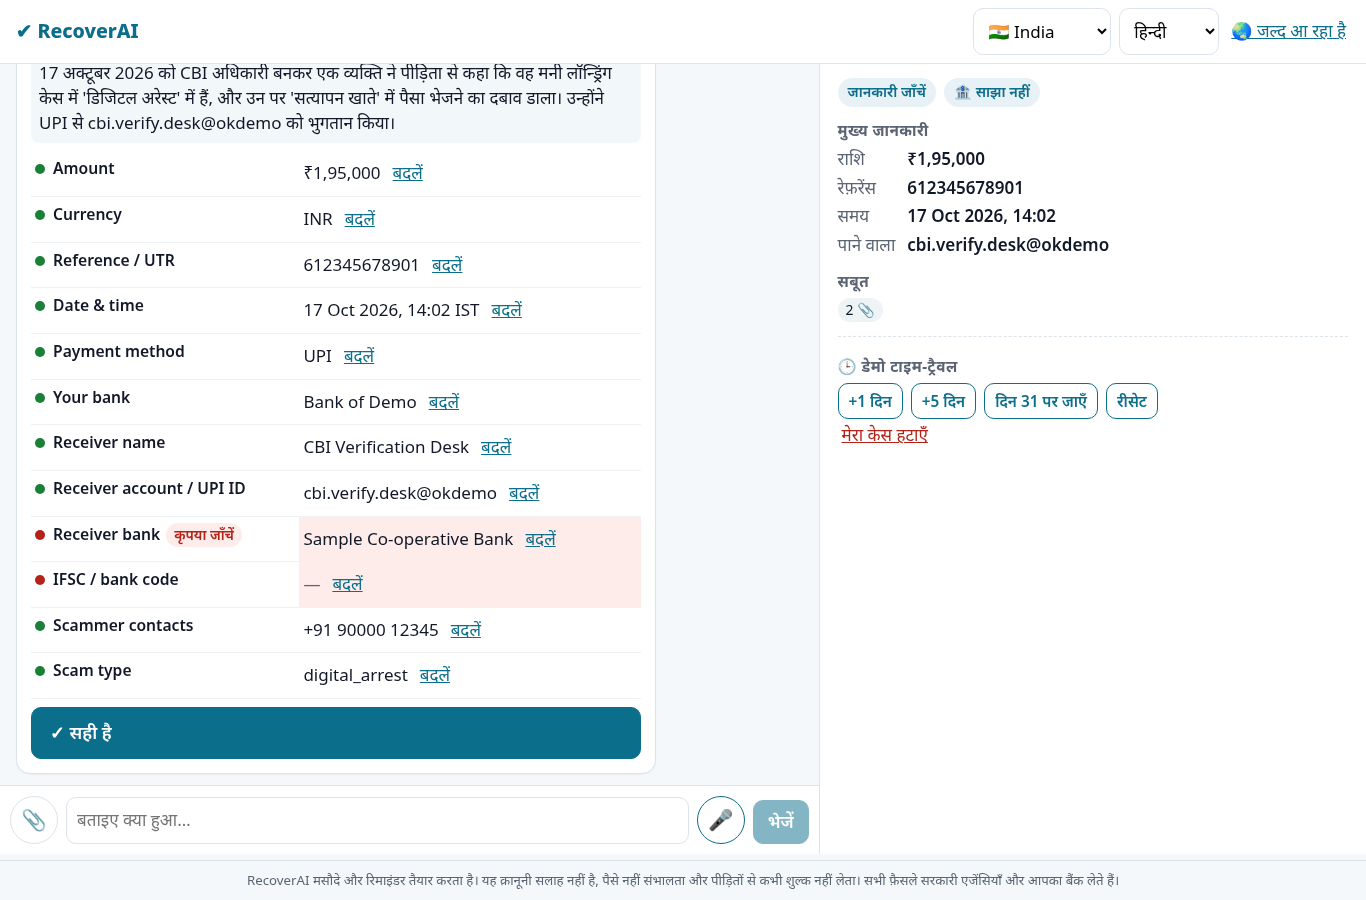
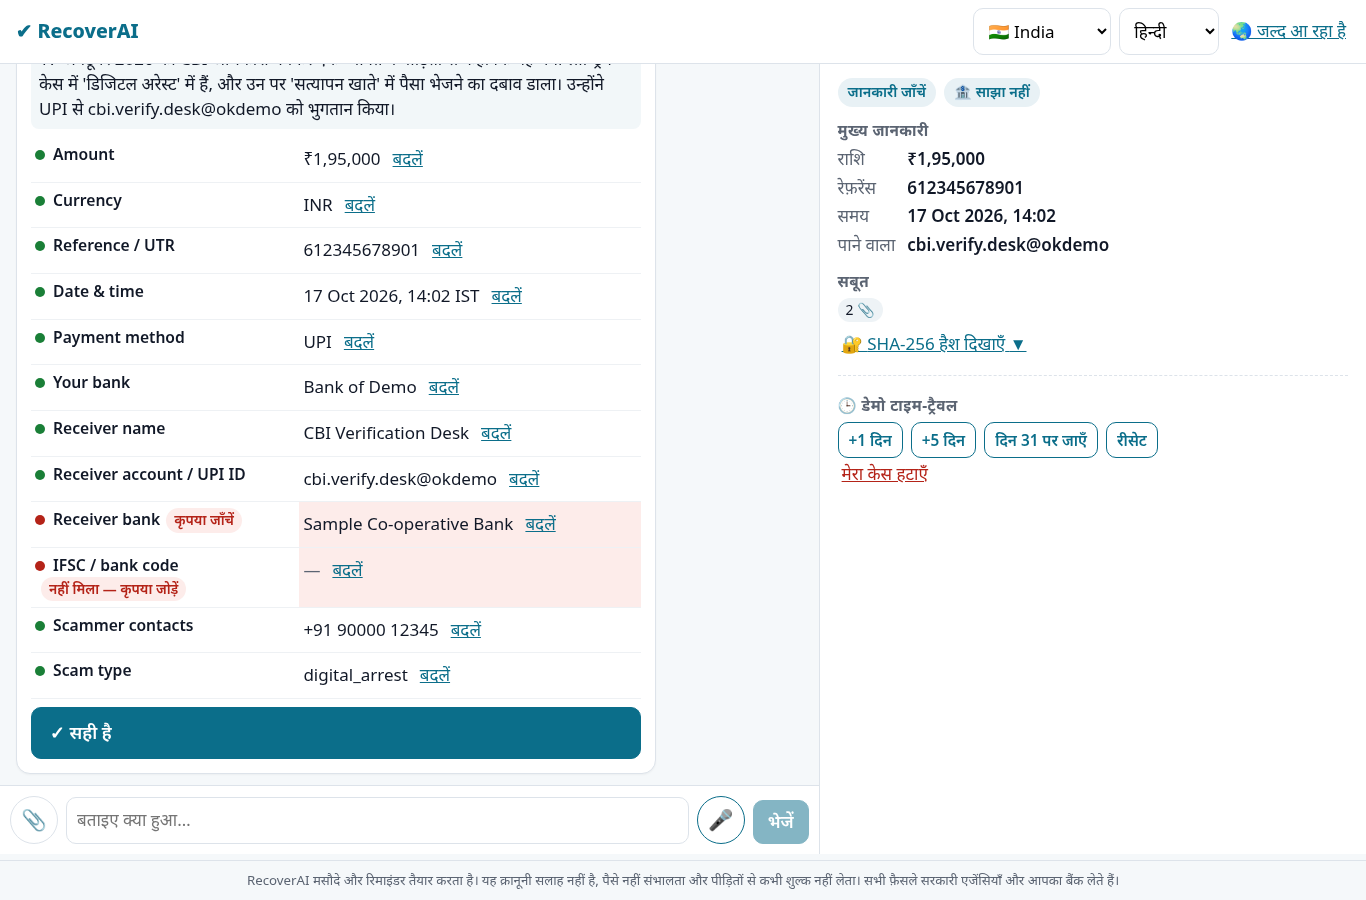
UI audit gaps: live bank case detail, mobile bottom tabs + large mic, timeline mark-done per clock, camera button + evidence type/time, panel SHA-256 hashes, check chip on missing facts; smoke test covers them

Changed region(s): [[0.0, 0.0622, 0.4612, 0.6844], [0.6149, 0.3733, 0.8609, 0.56]]

diff --git a/frontend/src/cards/UploadCard.tsx b/frontend/src/cards/UploadCard.tsx
@@ -4,7 +4,12 @@ import { useCopilot } from "../copilot/context";
 import { useT } from "../i18n";
 import type { CardProps } from ".";
 
-interface Item { id: string; label: string; preview?: string; sha256?: string }
+interface Item { id: string; label: string; type: string; at?: string; preview?: string; sha256?: string }
+
+export function fmtTime(iso?: string): string {
+  if (!iso) return "—";
+  return new Date(iso).toLocaleString("en-GB", { day: "numeric", month: "short", hour: "2-digit", minute: "2-digit" });
+}
 
 export function UploadCard({ data, messageId }: CardProps) {
   const { caseId, trigger, apply, busy, latestCardId } = useCopilot();
@@ -15,6 +20,7 @@ export function UploadCard({ data, messageId }: CardProps) {
   const [err, setErr] = useState<string | null>(null);
   const [recording, setRecording] = useState<MediaRecorder | null>(null);
   const fileRef = useRef<HTMLInputElement>(null);
+  const camRef = useRef<HTMLInputElement>(null);
   const active = latestCardId("upload") === messageId;
 
   const add = async (files: FileList | null) => {
@@ -24,7 +30,8 @@ export function UploadCard({ data, messageId }: CardProps) {
     try {
       for (const f of Array.from(files).slice(0, 5)) {
         const r = await uploadFile(caseId, f, "evidence", f.name);
-        setItems((x) => [...x, { id: r.evidence.id, label: f.name, preview: f.type.startsWith("image/") ? URL.createObjectURL(f) : undefined, sha256: r.evidence.sha256 }]);
+        setItems((x) => [...x, { id: r.evidence.id, label: f.name, type: r.evidence.type, at: r.evidence.uploadedAt,
+          preview: f.type.startsWith("image/") ? URL.createObjectURL(f) : undefined, sha256: r.evidence.sha256 }]);
         if (r.messages?.length) apply({ messages: r.messages });
       }
     } catch (e: any) {
@@ -39,7 +46,8 @@ export function UploadCard({ data, messageId }: CardProps) {
     setWorking(true);
     try {
       const r = await api.post<{ evidence: any; messages: any[] }>(`/api/cases/${caseId}/evidence`, { type: "text", textContent: paste });
-      setItems((x) => [...x, { id: r.evidence.id, label: paste.slice(0, 60) + (paste.length > 60 ? "…" : ""), sha256: r.evidence.sha256 }]);
+      setItems((x) => [...x, { id: r.evidence.id, label: paste.slice(0, 60) + (paste.length > 60 ? "…" : ""), type: r.evidence.type,
+        at: r.evidence.uploadedAt, sha256: r.evidence.sha256 }]);
       if (r.messages?.length) apply({ messages: r.messages });
       setPaste("");
     } catch (e: any) {
@@ -76,9 +84,11 @@ export function UploadCard({ data, messageId }: CardProps) {
       <h3>{t("uploadTitle")}</h3>
       <p className="muted">{data?.prompt || t("uploadHint")}</p>
       <div className="row wrap">
-        <button className="btn" onClick={() => fileRef.current?.click()} disabled={working || !active}>📷 {t("chooseFiles")}</button>
+        <button className="btn" onClick={() => fileRef.current?.click()} disabled={working || !active}>🖼 {t("chooseFiles")}</button>
+        <button className="btn camera" onClick={() => camRef.current?.click()} disabled={working || !active}>📷 {t("camera")}</button>
         <button className={`btn ${recording ? "danger" : ""}`} onClick={recordNote} disabled={working || !active}>🎤 {recording ? t("stop") : t("recordNote")}</button>
-        <input ref={fileRef} type="file" hidden multiple accept="image/png,image/jpeg,image/webp,audio/mpeg,audio/mp4,audio/x-m4a,audio/wav,audio/webm" capture={undefined} onChange={(e) => add(e.target.files)} />
+        <input ref={fileRef} type="file" hidden multiple accept="image/png,image/jpeg,image/webp,audio/mpeg,audio/mp4,audio/x-m4a,audio/wav,audio/webm" onChange={(e) => add(e.target.files)} />
+        <input ref={camRef} type="file" hidden accept="image/*" capture="environment" data-testid="camera-input" onChange={(e) => add(e.target.files)} />
       </div>
       <textarea className="paste" placeholder={t("pasteText")} value={paste} onChange={(e) => setPaste(e.target.value)} rows={3} disabled={!active} />
       <button className="btn" onClick={addText} disabled={!paste.trim() || working || !active}>{t("addText")}</button>
@@ -87,8 +97,11 @@ export function UploadCard({ data, messageId }: CardProps) {
           {items.map((i) => (
             <li key={i.id}>
               {i.preview ? <img src={i.preview} alt="" /> : <span className="doc-ic">📄</span>}
-              <span className="ev-label">{i.label}</span>
-              <code title="SHA-256">{i.sha256?.slice(0, 12)}…</code>
+              <span className="ev-meta">
+                <span className="ev-label">{i.label}</span>
+                <span className="muted small ev-type-time">{t(`evType.${i.type}`)} · {fmtTime(i.at)}</span>
+              </span>
+              <code title={`SHA-256 ${i.sha256 || ""}`}>{i.sha256?.slice(0, 12)}…</code>
             </li>
           ))}
         </ul>

diff --git a/frontend/src/cards/PlanCard.tsx b/frontend/src/cards/PlanCard.tsx
@@ -5,17 +5,39 @@ import { useT } from "../i18n";
 import type { Step } from "../lib/types";
 import type { CardProps } from ".";
 
-export function StepRow({ step, big }: { step: Step; big?: boolean }) {
+/** "Mark done" + optional reference for one plan step. Shared by the Plan and Timeline cards (same endpoint). */
+export function MarkDone({ step, label }: { step: Step; label?: string }) {
   const { caseId, apply } = useCopilot();
   const t = useT();
   const [open, setOpen] = useState(false);
   const [ref, setRef] = useState("");
-  const done = step.status === "done";
+  const [working, setWorking] = useState(false);
+  if (step.status === "done") return step.user_reference ? <span className="chip">ref {step.user_reference}</span> : null;
   const mark = async () => {
-    const r = await api.patch<any>(`/api/cases/${caseId}/steps/${step.id}`, { status: "done", reference: ref || null });
-    apply(r);
-    setOpen(false);
+    setWorking(true);
+    try {
+      apply(await api.patch<any>(`/api/cases/${caseId}/steps/${step.id}`, { status: "done", reference: ref || null }));
+      setOpen(false);
+    } finally {
+      setWorking(false);
+    }
   };
+  return (
+    <span className="mark-done">
+      {!open && <button className="btn small" onClick={() => setOpen(true)}>{t("markDone")}{label ? `: ${label}` : ""}</button>}
+      {open && (
+        <span className="row">
+          <input placeholder={t("reference")} value={ref} onChange={(e) => setRef(e.target.value)} aria-label={t("reference")} />
+          <button className="btn small primary" disabled={working} onClick={mark}>{t("done")}</button>
+        </span>
+      )}
+    </span>
+  );
+}
+
+export function StepRow({ step, big }: { step: Step; big?: boolean }) {
+  const t = useT();
+  const done = step.status === "done";
   const tel = step.channel === "call" && step.contact ? `tel:${step.contact}` : null;
   const url = step.contact?.startsWith("http") ? step.contact : null;
   return (
@@ -29,15 +51,8 @@ export function StepRow({ step, big }: { step: Step; big?: boolean }) {
         {tel && !done && <a className="btn primary big call" href={tel}>📞 {t("callNow")} {step.contact}</a>}
         {url && <a className="btn" href={url} target="_blank" rel="noreferrer">↗ {url.replace("https://", "")}</a>}
         {step.deadlineDisplay && <span className="chip deadline">⏰ {t("deadline")}: {step.deadlineDisplay}</span>}
-        {done && step.user_reference && <span className="chip">ref {step.user_reference}</span>}
-        {!done && <button className="btn small" onClick={() => setOpen(!open)}>{t("markDone")}</button>}
+        <MarkDone step={step} />
       </div>
-      {open && (
-        <div className="row">
-          <input placeholder={t("reference")} value={ref} onChange={(e) => setRef(e.target.value)} />
-          <button className="btn small primary" onClick={mark}>{t("done")}</button>
-        </div>
-      )}
     </li>
   );
 }

diff --git a/frontend/src/styles.css b/frontend/src/styles.css
@@ -118,6 +118,17 @@ tr.lvl-red td { background: var(--red-bg); } tr.lvl-amber td { background: #fffa
   .mobile-tabs button.on { border-color: var(--accent); color: var(--accent); }
   .layout { display: block; } .chat { height: calc(100vh - 160px); border-right: none; } .panel { height: auto; }
   .tab-chat .panel { display: none; } .tab-case .chat { display: none; }
+  /* §13.1 mobile: bottom tab bar (Chat / My case); the chat fills the space between header and tab bar */
+  .mobile-tabs { position: fixed; left: 0; right: 0; bottom: 0; z-index: 30; background: #fff; border-top: 1px solid var(--line);
+                 box-shadow: 0 -2px 8px rgba(0,0,0,.06); padding-bottom: env(safe-area-inset-bottom); }
+  .mobile-tabs button { min-height: 58px; border-bottom: none; border-top: 3px solid transparent; font-size: 1rem; }
+  .mobile-tabs button.on { border-top-color: var(--accent); }
+  .app { padding-bottom: calc(62px + env(safe-area-inset-bottom)); }
+  .app.tab-chat { height: 100vh; height: 100dvh; min-height: 0; overflow: hidden; }
+  .app.tab-chat .layout { flex: 1; min-height: 0; } .app.tab-chat .chat { height: 100%; }
+  .app.tab-chat .disclaimer { display: none; }
+  /* large mic on mobile */
+  .inputbar .icon-btn.mic { min-width: 64px; min-height: 64px; font-size: 1.7rem; border-width: 2px; }
   .grid2 { grid-template-columns: 1fr; } .bubble { max-width: 92%; }
   .inbox { font-size: .85rem; } .inbox th:nth-child(5), .inbox td:nth-child(5) { display: none; }
 }
@@ -145,3 +156,11 @@ tr.lvl-red td { background: var(--red-bg); } tr.lvl-amber td { background: #fffa
 .c-MY { background: #2f7de0; }
 .legend { display: inline-block; width: 10px; height: 10px; border-radius: 2px; margin: 0 4px 0 10px; vertical-align: middle; }
 table.compact td, table.compact th { padding: 4px 8px; }
+
+/* Upload items: type + time; panel hash expander; timeline step actions */
+.ev-meta { display: flex; flex-direction: column; flex: 1; min-width: 0; } .ev-meta .ev-label { overflow: hidden; text-overflow: ellipsis; white-space: nowrap; }
+.hashes { margin-top: 6px; } .hash-list { list-style: none; padding: 0; margin: 6px 0 0; display: grid; gap: 6px; }
+.hash-list li { background: #f5f8fa; border-radius: 8px; padding: 6px 8px; } .hash-list .sha { font-size: .72rem; word-break: break-all; display: block; }
+.clock-steps { list-style: none; padding: 0; margin: 6px 0 0; display: grid; gap: 6px; }
+.clock-steps li { display: flex; flex-wrap: wrap; gap: 6px; align-items: center; justify-content: space-between; }
+.clock-steps li.done { color: var(--muted); } .mark-done input { max-width: 160px; }

diff --git a/frontend/src/panel/CasePanel.tsx b/frontend/src/panel/CasePanel.tsx
@@ -6,6 +6,39 @@ import { countdown, effectiveNow } from "../lib/live";
 import { useCopilot } from "../copilot/context";
 import { openEvidencePack } from "../cards/DraftsCard";
 import { useT } from "../i18n";
+import { fmtTime } from "../cards/UploadCard";
+
+/** F2/§13.3: evidence count with an expander listing every item's type, time and full SHA-256. */
+function EvidenceHashes({ caseId, count }: { caseId: string; count: number }) {
+  const t = useT();
+  const [open, setOpen] = useState(false);
+  const [items, setItems] = useState<any[] | null>(null);
+  const [err, setErr] = useState<string | null>(null);
+  useEffect(() => {
+    if (!open) return;
+    api.get<{ evidence: any[] }>(`/api/cases/${caseId}/evidence`).then((r) => setItems(r.evidence)).catch((e) => setErr(e.message));
+  }, [open, caseId, count]);
+  if (!count) return null;
+  return (
+    <div className="hashes">
+      <button className="link small" aria-expanded={open} onClick={() => setOpen(!open)}>
+        🔐 {open ? t("hideHashes") : t("hashes")} {open ? "▲" : "▼"}
+      </button>
+      {open && (
+        <ul className="hash-list">
+          {err && <li className="error">{err}</li>}
+          {!items && !err && <li className="muted">…</li>}
+          {items?.map((e) => (
+            <li key={e.id}>
+              <div className="small"><b>{t(`evType.${e.type}`)}</b>{e.fileName ? ` · ${e.fileName}` : ""} · {fmtTime(e.uploadedAt)}</div>
+              <code className="sha">{e.sha256}</code>
+            </li>
+          ))}
+        </ul>
+      )}
+    </div>
+  );
+}
 
 function amountDisplay(ex: any): string | null {
   if (!ex || ex.amount == null) return null;
@@ -85,6 +118,7 @@ export function CasePanel() {
           <span className="chip">{c.evidenceCount || 0} 📎</span>
           {c.evidencePackPath && <button className="btn small" onClick={() => openEvidencePack(caseId)}>📄 {t("evidencePack")}</button>}
         </div>
+        <EvidenceHashes caseId={caseId} count={c.evidenceCount || 0} />
       </section>
       {DEMO_UI && c.demoMode && (
         <section className="demo">

diff --git a/frontend/src/cards/TimelineCard.tsx b/frontend/src/cards/TimelineCard.tsx
@@ -2,10 +2,11 @@ import { useEffect, useState } from "react";
 import { useCopilot } from "../copilot/context";
 import { countdown, effectiveNow } from "../lib/live";
 import { useT } from "../i18n";
-import type { Clock } from "../lib/types";
+import type { Clock, Step } from "../lib/types";
+import { MarkDone } from "./PlanCard";
 import type { CardProps } from ".";
 
-export function ClockList({ clocks }: { clocks: Clock[] }) {
+export function ClockList({ clocks, actions }: { clocks: Clock[]; actions?: boolean }) {
   const { caseDoc } = useCopilot();
   const t = useT();
   const [, tick] = useState(0);
@@ -25,6 +26,23 @@ export function ClockList({ clocks }: { clocks: Clock[] }) {
             <span className={`chip st-${c.status}`}>{t(c.status)}</span>
           </div>
           {(c.noteLocal || c.note) && <div className="note">ℹ {c.noteLocal || c.note}</div>}
+          {actions && <ClockSteps clock={c} steps={(caseDoc?.plan?.steps as Step[]) || []} />}
+        </li>
+      ))}
+    </ul>
+  );
+}
+
+/** The plan steps a clock depends on, each with Mark done + reference (the clock is done when all are). */
+function ClockSteps({ clock, steps }: { clock: Clock; steps: Step[] }) {
+  const linked = (clock.appliesToSteps || []).map((id) => steps.find((s) => s.id === id)).filter(Boolean) as Step[];
+  if (!linked.length || clock.status === "done") return null;
+  return (
+    <ul className="clock-steps">
+      {linked.map((s) => (
+        <li key={s.id} className={s.status === "done" ? "done" : ""}>
+          <span>{s.status === "done" ? "✅" : "⬜"} {s.titleLocal || s.title}</span>
+          <MarkDone step={s} />
         </li>
       ))}
     </ul>
@@ -39,7 +57,7 @@ export function TimelineCard({ data }: CardProps) {
   return (
     <div className="card timeline-card">
       <h3>⏱ {t("timelineTitle")}</h3>
-      <ClockList clocks={clocks} />
+      <ClockList clocks={clocks} actions />
       <p><b>{t("bankStatus")}:</b> <span className={`pill bank-${bank}`}>{t(`bank.${bank}`)}</span></p>
     </div>
   );

diff --git a/frontend/src/bank/CaseDetail.tsx b/frontend/src/bank/CaseDetail.tsx
@@ -1,7 +1,9 @@
 import { useCallback, useEffect, useState } from "react";
 import { useParams } from "react-router-dom";
 import { api } from "../lib/api";
-import { resolveUrl } from "../lib/config";
+import { doc, onSnapshot } from "firebase/firestore";
+import { MOCK, resolveUrl } from "../lib/config";
+import { bankDb } from "../lib/firebase";
 import { riskBadge } from "./Inbox";
 
 export function fmtMoney(v: number | null | undefined, currency?: string | null): string {
@@ -19,7 +21,20 @@ export function CaseDetail({ analyst }: { analyst: string }) {
   const load = useCallback(() => api.bankGet<any>(`/api/bank/cases/${id}`).then(setD).catch((e) => setErr(e.message)), [id]);
   useEffect(() => {
     load();
-  }, [load]);
+    // Live: the receiver fills in the Gemini reason and ML score a few seconds after the case appears, and decisions
+    // change status/audit. Re-read the API view whenever the bank_cases doc changes (rules: role=bank only).
+    if (MOCK) {
+      const iv = window.setInterval(load, 2000);
+      return () => window.clearInterval(iv);
+    }
+    let first = true;
+    let fallback: number | undefined;
+    const unsub = onSnapshot(doc(bankDb(), "bank_cases", id!), () => {
+      if (first) { first = false; return; }
+      load();
+    }, () => { fallback = window.setInterval(load, 3000); });  // listener refused: poll instead
+    return () => { unsub(); if (fallback) window.clearInterval(fallback); };
+  }, [load, id]);
   if (err) return <main className="bank-main"><p className="error">{err}</p></main>;
   if (!d) return <main className="bank-main">…</main>;
   const c = d.case;

diff --git a/frontend/src/cards/FactsCard.tsx b/frontend/src/cards/FactsCard.tsx
@@ -48,7 +48,7 @@ export function FactsCard({ data, messageId }: CardProps) {
               <tr key={f.key} className={`lvl-${f.level}`}>
                 <th>
                   <span className={`dot ${f.level}`} aria-hidden /> {LABELS[f.key] || f.key}
-                  {f.level === "red" && !f.missing && <span className="chip warn">{t("checkThis")}</span>}
+                  {f.level === "red" && <span className="chip warn">{f.missing ? t("missingCheck") : t("checkThis")}</span>}
                 </th>
                 <td>
                   {editing === f.key ? (

diff --git a/frontend/src/lib/types.ts b/frontend/src/lib/types.ts
@@ -50,6 +50,7 @@ export interface Clock {
   escalationTemplate?: string | null;
   escalationNotifiedAt?: string | null;
   contact?: string | null;
+  appliesToSteps?: string[];
 }
 
 export interface CaseDoc {

diff --git a/scripts/ui_smoke.py b/scripts/ui_smoke.py
@@ -38,14 +38,19 @@ def main() -> None:
         pg.fill(".inputbar textarea", "मैंने CBI वाले को 1,95,000 भेज दिए")
         pg.keyboard.press("Enter")
         pg.wait_for_selector(".upload-card")
-        pg.set_input_files(".upload-card input[type=file]", str(FIX / "in_upi_success.png"))
-        pg.wait_for_selector(".upload-card .evidence-list li")
+        assert pg.locator(".upload-card input[type=file][capture=environment]").count() == 1, "camera input"
+        assert pg.locator(".upload-card button.camera").count() == 1, "camera button"
+        pg.set_input_files(".upload-card input[type=file]:not([capture])", str(FIX / "in_upi_success.png"))
+        pg.wait_for_selector(".upload-card .evidence-list li .ev-type-time")
+        assert "·" in pg.locator(".upload-card .ev-type-time").first.inner_text(), "evidence type + time"
         pg.fill(".upload-card textarea.paste", (FIX / "in_whatsapp_scam.txt").read_text())
         pg.get_by_role("button", name="टेक्स्ट जोड़ें").click()
         pg.wait_for_selector(".upload-card .evidence-list li:nth-child(2)")
         pg.get_by_role("button", name="मेरे सबूत पढ़ें").click()
         pg.wait_for_selector(".facts-card")
         pg.wait_for_timeout(600)
+        reds = pg.locator(".facts-card tr.lvl-red").count()
+        assert pg.locator(".facts-card tr.lvl-red .chip.warn").count() == reds, "check-this chip on every red row"
         pg.screenshot(path=str(SHOTS / "01-copilot-facts-card.png"))
         pg.get_by_role("button", name="✓ सही है").click()
         pg.wait_for_selector(".plan-card")
@@ -59,6 +64,18 @@ def main() -> None:
         pg.get_by_role("button", name="✓ मेरे बैंक से साझा करें").click()
         pg.wait_for_selector(".timeline-card")
         case_url = pg.url
+        # gap 3: mark a clock's step done from the timeline card, with a reference
+        tl = pg.locator(".timeline-card")
+        tl.locator(".clock-steps .mark-done button").first.click()
+        tl.locator(".clock-steps .mark-done input").first.fill("ACK-SMOKE-1")
+        tl.locator(".clock-steps .mark-done button.primary").first.click()
+        pg.wait_for_selector(".timeline-card .chip:has-text('ACK-SMOKE-1')")
+        pg.wait_for_selector(".plan-card .chip:has-text('ACK-SMOKE-1')")
+        # gap 5: evidence hashes in the case panel
+        pg.locator(".panel .hashes button").click()
+        pg.wait_for_selector(".panel .hash-list .sha")
+        shas = pg.locator(".panel .hash-list .sha").all_inner_texts()
+        assert len(shas) == 2 and all(len(x.strip()) == 64 for x in shas), shas
 
         bank = b.new_page(viewport={"width": 1366, "height": 900})
         bank.goto(a.base + "/bank")
@@ -68,8 +85,18 @@ def main() -> None:
         bank.locator(".inbox tbody tr a").first.click()
         bank.wait_for_selector(".signals li")
         bank.screenshot(path=str(SHOTS / "04-bank-case-detail.png"), full_page=True)
+        # gap 1: a second open detail view updates without reload
+        watcher = b.new_page(viewport={"width": 1366, "height": 900})
+        detail_url = bank.url
+        watcher.goto(a.base + "/bank")
+        watcher.get_by_role("button", name="Sign in").click()
+        watcher.wait_for_selector(".inbox tbody tr a")
+        watcher.goto(detail_url)
+        watcher.wait_for_selector(".signals li")
         bank.get_by_role("button", name="Approve temporary hold").click()
         bank.wait_for_selector(".pill.bstat-HOLD_APPROVED")
+        watcher.wait_for_selector(".pill.bstat-HOLD_APPROVED", timeout=8000)
+        watcher.close()
         bank.get_by_role("link", name="Scam intelligence").click()
         bank.wait_for_selector(".intel table tbody tr")
         bank.wait_for_timeout(500)
@@ -92,6 +119,10 @@ def main() -> None:
         m.set_viewport_size({"width": 360, "height": 780})
         m.goto(case_url)
         m.wait_for_selector(".messages .msg")
+        tabs = m.locator(".mobile-tabs").bounding_box()
+        assert tabs and abs(tabs["y"] + tabs["height"] - 780) < 2, ("tabs at bottom", tabs)
+        mic = m.locator(".inputbar .icon-btn.mic").bounding_box()
+        assert mic and mic["width"] >= 60 and mic["y"] + mic["height"] <= tabs["y"], ("mic", mic)
         m.screenshot(path=str(SHOTS / "07-mobile-360.png"))
         m.get_by_role("button", name="मेरा केस").click()
         m.screenshot(path=str(SHOTS / "08-mobile-my-case.png"))
